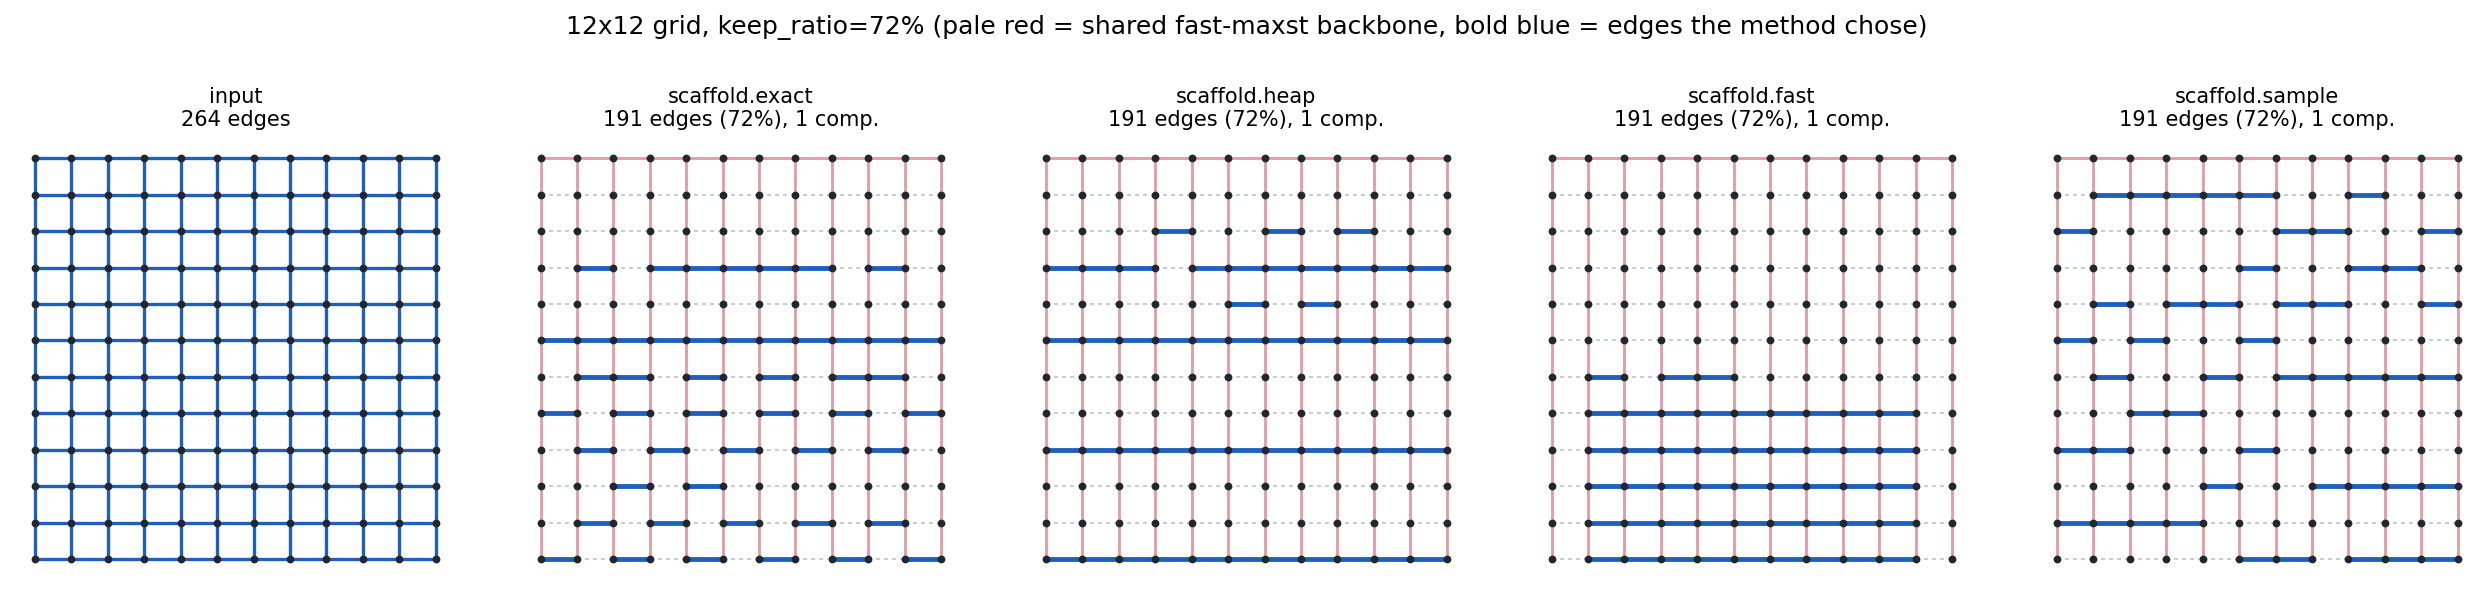
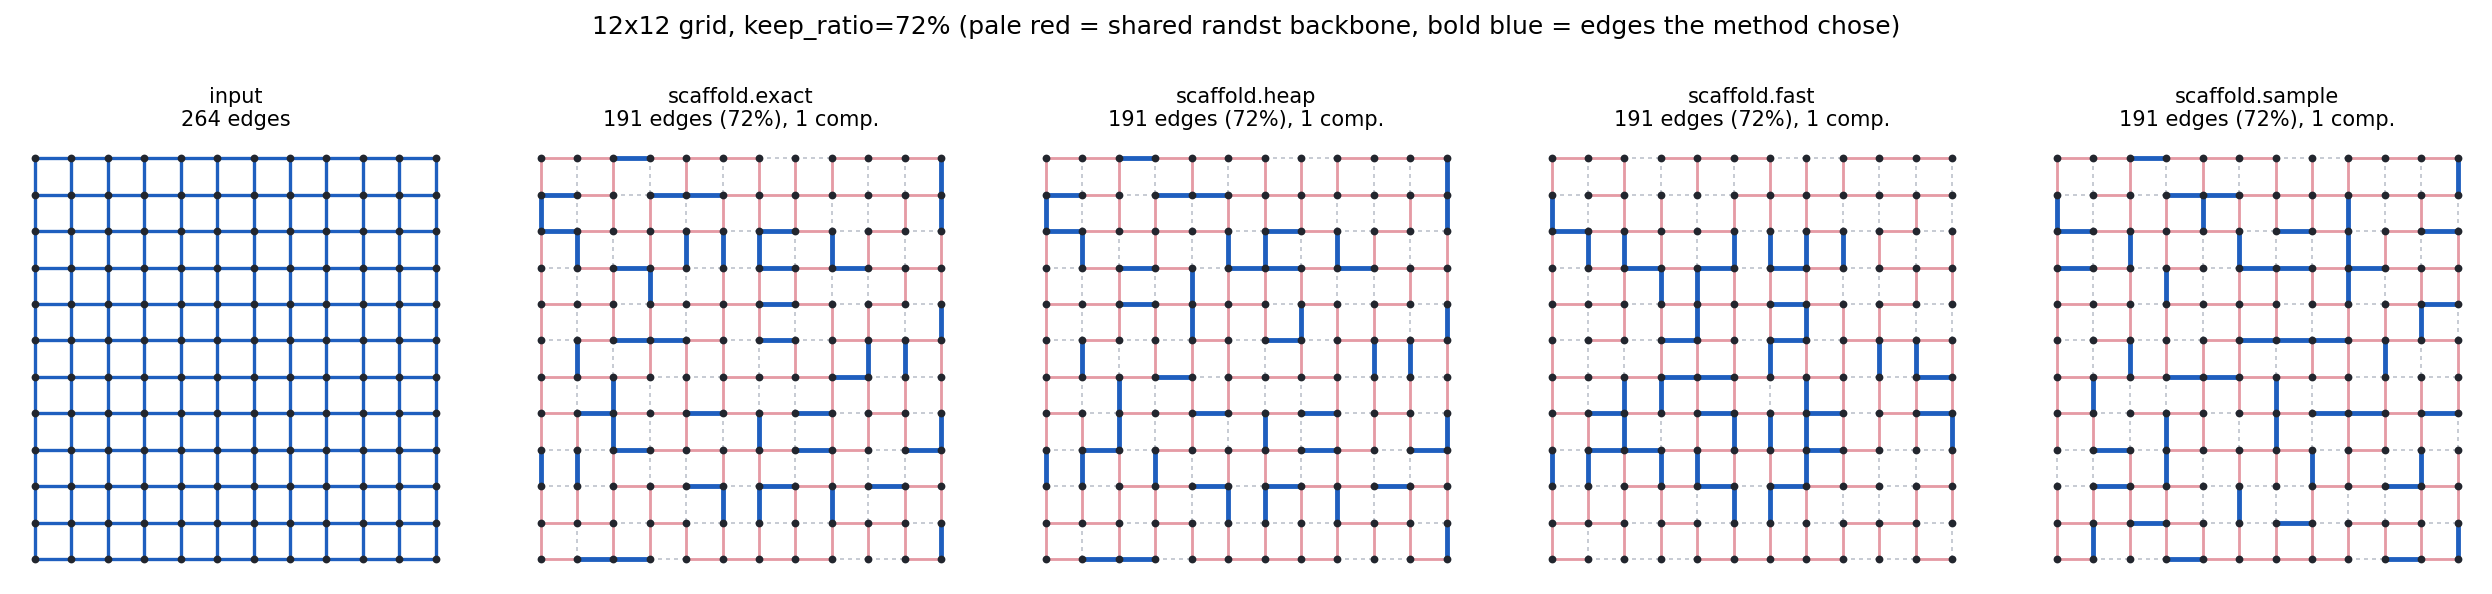
Use randst in four-method visualization

diff --git a/src/scaffold/algorithms/sample.py b/src/scaffold/algorithms/sample.py
@@ -11,8 +11,8 @@ one ``searchsorted``.
 
 Precomputation (paper Algorithm 3)
 ----------------------------------
-1. Build a deterministic MaxST backbone ``F0`` and ``R`` random spanning
-   forests ``F_1..F_R``.
+1. Build a fixed backbone ``F0`` (MaxST by default, or seeded RandST) and ``R``
+   random spanning forests ``F_1..F_R``.
 2. Score every non-tree edge exactly against each forest with the
    ``O(m log n + n)`` tree kernel.
 3. Aggregate into a single ratio-independent weight::
@@ -48,6 +48,7 @@ from typing import Optional
 
 import numpy as np
 
+from ..backbone import build_backbone
 from ..graph import Graph
 from ..kernels import (
     build_tree_index,
@@ -133,9 +134,10 @@ class ScaffoldSampler:
         self.tree_count = max(1, int(tree_count))
         self.aggregate_lambda = float(aggregate_lambda)
         backbone = str(backbone).strip().lower().replace("_", "-")
-        if backbone not in ("fixed-maxst", "rotate-randst"):
+        if backbone not in ("fixed-maxst", "fixed-randst", "rotate-randst"):
             raise ValueError(
-                "backbone must be 'fixed-maxst' or 'rotate-randst', got "
+                "backbone must be 'fixed-maxst', 'fixed-randst', or "
+                "'rotate-randst', got "
                 f"{backbone!r}"
             )
         self.backbone = backbone
@@ -181,12 +183,17 @@ class ScaffoldSampler:
             self.build_seconds = time.perf_counter() - start
             return self
 
-        # --- deterministic backbone (MaxST forest) ------------------------
-        if graph.edge_weight is None:
-            visit = np.arange(m, dtype=np.int64)
+        # --- fixed backbone used to guarantee every draw ------------------
+        if self.backbone == "fixed-randst":
+            det_mask = build_backbone(graph, "randst", seed=self.seed)
         else:
-            visit = np.argsort(-graph.edge_weight, kind="stable").astype(np.int64)
-        det_mask = spanning_forest_mask(n, src, dst, visit)
+            if graph.edge_weight is None:
+                visit = np.arange(m, dtype=np.int64)
+            else:
+                visit = np.argsort(-graph.edge_weight, kind="stable").astype(
+                    np.int64
+                )
+            det_mask = spanning_forest_mask(n, src, dst, visit)
         det_index = build_tree_index(n, src[det_mask], dst[det_mask])
         det_out = tree_scores(
             n, src, dst, det_mask, weight,
@@ -299,12 +306,12 @@ class ScaffoldSampler:
 
     # -- drawing ------------------------------------------------------------
     def _rotation(self) -> int:
-        if self.backbone == "fixed-maxst":
+        if self.backbone.startswith("fixed-"):
             return 0
         return self._draw_index % max(1, len(self.random_forests))
 
     def _backbone_mask(self, rotation: int) -> np.ndarray:
-        if self.backbone == "fixed-maxst":
+        if self.backbone.startswith("fixed-"):
             return self.det_forest
         return self.random_forests[rotation]
 
@@ -464,6 +471,7 @@ class ScaffoldSampler:
             delta_min=np.float64(self.delta_min),
             tree_count=np.int64(self.tree_count),
             aggregate_lambda=np.float64(self.aggregate_lambda),
+            backbone=np.asarray(self.backbone),
         )
         return path
 
@@ -482,14 +490,21 @@ class ScaffoldSampler:
                 "artifact does not match this graph (different edge list). "
                 "Rebuild it with scaffold.sample(graph)."
             )
-        sampler = cls(tree_count=int(data["tree_count"]),
-                      aggregate_lambda=float(data["aggregate_lambda"]), **kwargs)
+        if "backbone" in data:
+            kwargs.setdefault("backbone", str(data["backbone"].item()))
+        sampler = cls(
+            tree_count=int(data["tree_count"]),
+            aggregate_lambda=float(data["aggregate_lambda"]),
+            **kwargs,
+        )
         sampler.graph = graph
         sampler.pi = data["pi"]
         sampler.mandatory = data["mandatory"].astype(bool)
         sampler.det_forest = data["det_forest"].astype(bool)
         forests = data["random_forests"]
-        sampler.random_forests = [row.astype(bool) for row in forests] if forests.size else []
+        sampler.random_forests = (
+            [row.astype(bool) for row in forests] if forests.size else []
+        )
         sampler.order = data["order"]
         sampler.base_components = int(data["base_components"])
         sampler.delta_min = float(data["delta_min"])

diff --git a/tests/test_sample.py b/tests/test_sample.py
@@ -18,6 +18,7 @@ import pytest
 import scaffold
 from conftest import requires_networkx
 from scaffold.algorithms.sample import ScaffoldSampler, cap_and_renormalize
+from scaffold.backbone import build_backbone
 
 
 # ----------------------------------------------------------------------
@@ -175,15 +176,37 @@ def test_default_budget_is_remembered(grid):
     assert scores.draw(keep_ratio=0.9).sparse_edges == int(np.ceil(0.9 * grid.num_edges))
 
 
-@pytest.mark.parametrize("backbone", ["fixed-maxst", "rotate-randst"])
+@pytest.mark.parametrize(
+    "backbone", ["fixed-maxst", "fixed-randst", "rotate-randst"]
+)
 def test_backbone_modes(grid, backbone):
     scores = scaffold.sample(grid, seed=0, backbone=backbone)
     draws = [scores.draw(keep_ratio=0.7) for _ in range(4)]
     assert all(d.num_components() == 1 for d in draws)
-    if backbone == "fixed-maxst":
+    if backbone.startswith("fixed-"):
         assert {d.metadata["rotation"] for d in draws} == {0}
     else:
         assert len({d.metadata["rotation"] for d in draws}) > 1
+
+
+def test_fixed_randst_matches_public_backbone(grid):
+    scores = scaffold.sample(grid, seed=7, backbone="fixed-randst")
+    expected = build_backbone(grid, "randst", seed=7)
+    np.testing.assert_array_equal(scores.backbone, expected)
+
+
+def test_four_method_visual_can_share_randst(grid):
+    import matplotlib.pyplot as plt
+
+    backbone = build_backbone(grid, "randst", seed=7)
+    fig, results = scaffold.viz.compare_methods(
+        grid, keep_ratio=0.7, seed=7, backbone="randst"
+    )
+    try:
+        for result in results.values():
+            assert np.all(result.mask[backbone])
+    finally:
+        plt.close(fig)
 
 
 def test_rotating_backbone_varies_the_guaranteed_edges(grid):
@@ -223,6 +246,15 @@ def test_artifact_save_and_load(grid, tmp_path):
     assert reloaded.draw(keep_ratio=0.7).sparse_edges == int(
         np.ceil(0.7 * grid.num_edges)
     )
+
+
+def test_artifact_preserves_fixed_randst_mode(grid, tmp_path):
+    scores = scaffold.sample(grid, seed=7, backbone="fixed-randst")
+    path = scores.sampler.save(tmp_path / "randst-weights.npz")
+    reloaded = ScaffoldSampler.load(path, grid)
+
+    assert reloaded.backbone == "fixed-randst"
+    np.testing.assert_array_equal(reloaded.det_forest, scores.backbone)
 
 
 def test_artifact_rejects_a_different_graph(grid, tmp_path):

diff --git a/src/scaffold/viz.py b/src/scaffold/viz.py
@@ -156,6 +156,7 @@ def compare_methods(
     methods: Sequence[str] = ("exact", "heap", "fast", "sample"),
     positions=None,
     seed=0,
+    backbone=None,
     show_backbone: bool = True,
     figsize=None,
     **kwargs,
@@ -168,10 +169,12 @@ def compare_methods(
     import matplotlib.pyplot as plt
 
     from .api import sparsify
-    from .backbone import DEFAULT_BACKBONE, build_backbone
+    from .backbone import DEFAULT_BACKBONE, build_backbone, canonical_backbone_name
     from .utils.validation import resolve_budget
 
     positions = layout(graph, positions)
+    backbone = DEFAULT_BACKBONE if backbone is None else backbone
+    backbone_name = canonical_backbone_name(backbone)
     panels = 1 + len(methods)
     figsize = figsize or (3.4 * panels, 3.8)
     fig, axes = plt.subplots(1, panels, figsize=figsize)
@@ -191,16 +194,39 @@ def compare_methods(
     if show_backbone:
         highlight = build_backbone(
             graph,
-            DEFAULT_BACKBONE,
+            backbone,
             max_edges=resolve_budget(graph.num_edges, keep_ratio),
             seed=seed,
         )
 
     results = {}
     for ax, method in zip(axes[1:], methods):
-        result = sparsify(graph, method=method, keep_ratio=keep_ratio, seed=seed)
         if method == "sample":
+            sample_backbones = {
+                "fast-maxst": "fixed-maxst",
+                "randst": "fixed-randst",
+            }
+            if backbone_name not in sample_backbones:
+                raise ValueError(
+                    "the four-method comparison can share only a fast-maxst "
+                    "or randst backbone with scaffold.sample"
+                )
+            result = sparsify(
+                graph,
+                method=method,
+                keep_ratio=keep_ratio,
+                seed=seed,
+                backbone=sample_backbones[backbone_name],
+            )
             result = result.draw(keep_ratio=keep_ratio, seed=seed)
+        else:
+            result = sparsify(
+                graph,
+                method=method,
+                keep_ratio=keep_ratio,
+                seed=seed,
+                backbone=backbone,
+            )
         results[method] = result
         components = result.num_components()
         draw_graph(

diff --git a/examples/01_grid_demo.py b/examples/01_grid_demo.py
@@ -32,6 +32,7 @@ from scaffold.backbone import build_backbone
 ROWS = COLS = 12
 KEEP_RATIO = 0.72  # a 12x12 grid needs 143/264 = 0.542 just to stay connected
 SEED = 0
+METHODS_FIGURE_BACKBONE = "randst"
 
 
 def figure_backbones(graph, positions, out_dir):
@@ -61,11 +62,16 @@ def figure_backbones(graph, positions, out_dir):
 def figure_methods(graph, positions, out_dir):
     """The four algorithms at one budget. Red = the backbone they share."""
     fig, results = viz.compare_methods(
-        graph, keep_ratio=KEEP_RATIO, positions=positions, seed=SEED
+        graph,
+        keep_ratio=KEEP_RATIO,
+        positions=positions,
+        seed=SEED,
+        backbone=METHODS_FIGURE_BACKBONE,
     )
     fig.suptitle(
         f"{ROWS}x{COLS} grid, keep_ratio={KEEP_RATIO:.0%} "
-        "(pale red = shared fast-maxst backbone, bold blue = edges the method chose)",
+        f"(pale red = shared {METHODS_FIGURE_BACKBONE} backbone, "
+        "bold blue = edges the method chose)",
         y=1.03,
     )
     fig.tight_layout()

diff --git a/src/scaffold/api.py b/src/scaffold/api.py
@@ -207,7 +207,8 @@ def sample(
 
     Extra options: ``tree_count`` (number of random forests to aggregate over),
     ``aggregate_lambda`` (score-vs-frequency mix), ``backbone``
-    (``"fixed-maxst"`` or ``"rotate-randst"``), ``weighted_paths``.
+    (``"fixed-maxst"``, ``"fixed-randst"``, or ``"rotate-randst"``),
+    ``weighted_paths``.
 
     Examples
     --------

diff --git a/docs/api.md b/docs/api.md
@@ -105,7 +105,7 @@ overrides win over it.
 |---|---|---|
 | `tree_count` | `8` | random spanning forests to aggregate over (`R`) |
 | `aggregate_lambda` | `1.0` | mix of score vs. backbone frequency; `0` = frequency only |
-| `backbone` | `"fixed-maxst"` | `"fixed-maxst"` or `"rotate-randst"` |
+| `backbone` | `"fixed-maxst"` | `"fixed-maxst"`, `"fixed-randst"`, or `"rotate-randst"` |
 | `scheme` | `"systematic"` | sampling scheme (only systematic π-ps is implemented) |
 | `weighted_paths` | `False` | as above |
 | `verbose` | `False` | per-forest progress |

diff --git a/docs/algorithms.md b/docs/algorithms.md
@@ -215,7 +215,8 @@ the per-epoch cost to one uniform draw plus one `searchsorted`.
 
 ### Precomputation
 
-1. Build a deterministic MaxST backbone `F₀` and `R` random spanning forests.
+1. Build a fixed backbone `F₀` (MaxST by default, or seeded `randst`) and `R`
+   random spanning forests.
 2. Score every non-tree edge exactly against each forest with the tree kernel —
    `O(m log n + n)` per forest.
 3. Aggregate into a single **ratio-independent** weight:
